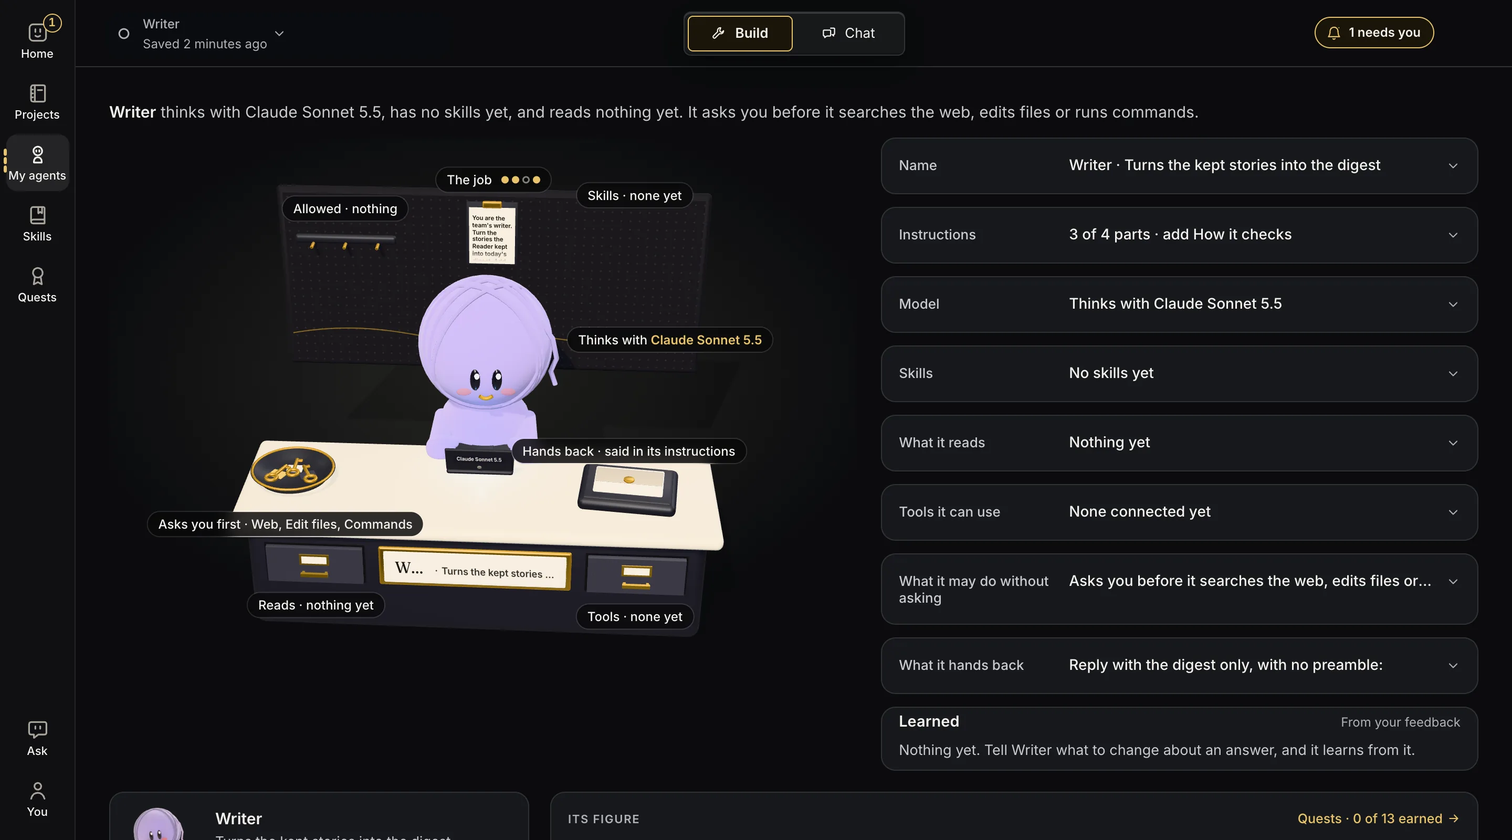
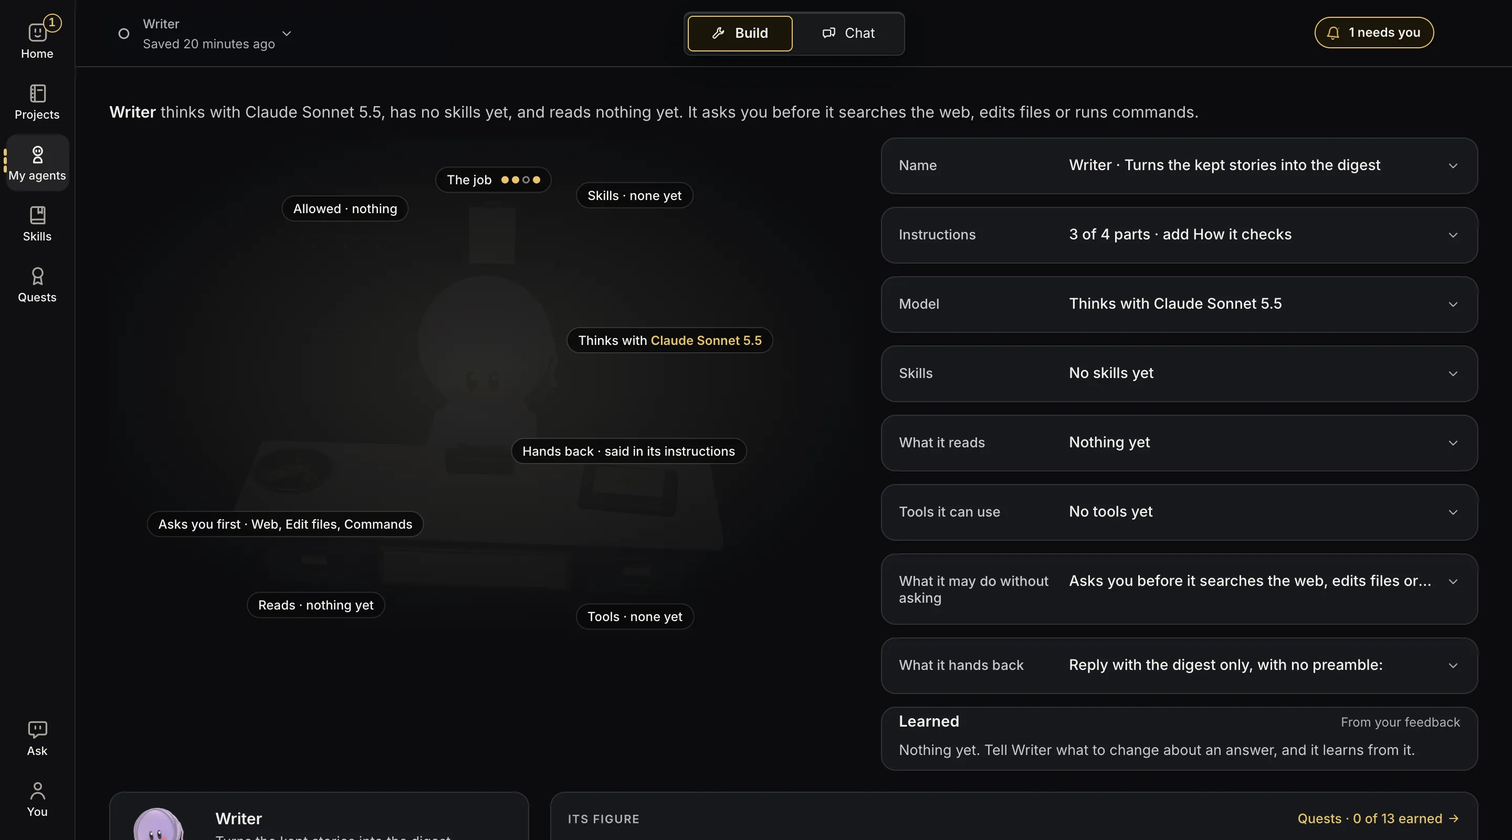
fix(team): adding an agent from the workbench asks first, and the save question never waits on Don't save
A second read by the newcomer and design reviewers found more ways to lose work
and words that still pointed at the old Agents tab.

- Pressing Add for another agent inside the workbench moved it to the new
  agent and dropped the changes on the one open. It now asks "Save changes to
  <name>?" first, like the close, the tabs and the chips.
- When the agent can't be saved as it is (no name, no instructions), the
  question says so ("This agent can't be saved yet. Give it a name.") and
  offers Don't save and Cancel only, with the keyboard on Cancel. Before, it
  offered a greyed-out Save and the keyboard landed on Don't save. The
  question's Save has the gold ring; the page's own Save keeps the one fill.
- My agents: the dashed "asks you" line is ink-3 (it was under 3:1 in dark),
  the check sits in a ringed badge clear of the next mark, and the "does" line
  is ink-2.
- A card focused from the keyboard (after Esc closes the workbench) shows its
  ring. The agents strip keeps clear of the close only where they share a row.
- Words: the Tools row says "No tools yet"; Connections and the receipt no
  longer send anyone to a Tools block or to Agents; the add panel no longer
  says "workflow"; the add chooser drops its second way back (the sheet's
  close is the one, ADR 0043); the guide says "You're editing one agent here".
  README and TEAM_CONFIG follow.

Checked: the UI suite (2,839 passed, 1 skipped), tsc and lint. The Add guard
[…]

diff --git a/ui/src/components/workspace/TeamAgents.tsx b/ui/src/components/workspace/TeamAgents.tsx
@@ -88,7 +88,7 @@ export function TeamAgents({ agents, responder, selected, onSelect, teamName, te
         {onAdd && agent && <button type="button" className="team-agents-chip add" aria-expanded={adding} onClick={() => setAdding((value) => !value)}><Plus size={16} aria-hidden="true" /><span><b>Add an agent</b><em>From My agents, or a new one</em></span></button>}
       </nav>
 
-      {choosing && onAdd && <AddAgents jobs={savedJobs} inTeam={agents} teamPath={teamPath} first={!agent} onAdd={(job) => { onAdd(job); setAdding(false) }} onClose={agent ? () => setAdding(false) : undefined} onShowWorkflow={onShowWorkflow} />}
+      {choosing && onAdd && <AddAgents jobs={savedJobs} inTeam={agents} teamPath={teamPath} first={!agent} onAdd={(job) => { onAdd(job); setAdding(false) }} onClose={agent ? () => setAdding(false) : undefined} />}
 
       {!agent && !onAdd && (
         <div className="team-agents-empty">
@@ -103,7 +103,7 @@ export function TeamAgents({ agents, responder, selected, onSelect, teamName, te
             ? <AgentBuilder id={mine.id} skills={[...skills]} skillsLoading={skillsLoading} inTeam={{ name: teamName, onSaved: onAgentSaved, reads, knowledge, onShowWorkflow }} leaveRef={leaveRef} />
             : savedJobsLoaded && (
               <div className="team-agents-empty">
-                <p>This agent isn’t in My agents any more, so this team can’t run. On the Team tab, select it, press Delete and save.</p>
+                <p>This agent isn’t in My agents any more, so this team can’t run. Go back to the team, select its card, press Delete and save.</p>
                 <button type="button" className="btn" onClick={onShowWorkflow}><Network size={14} aria-hidden="true" />Back to the team</button>
               </div>
             )}
@@ -124,12 +124,12 @@ export function TeamAgents({ agents, responder, selected, onSelect, teamName, te
  * Choosing agents for the team: the ones you built in Your agents, each added in one click and
  * linked to its current version, or a new one built there first. The first step of a team.
  */
-function AddAgents({ jobs, inTeam, teamPath, first, onAdd, onClose, onShowWorkflow }: { jobs: readonly SavedJob[]; inTeam: readonly AgentConfig[]; teamPath: string | null; first: boolean; onAdd: (job: SavedJob) => void; onClose?: () => void; onShowWorkflow: () => void }) {
+function AddAgents({ jobs, inTeam, teamPath, first, onAdd, onClose }: { jobs: readonly SavedJob[]; inTeam: readonly AgentConfig[]; teamPath: string | null; first: boolean; onAdd: (job: SavedJob) => void; onClose?: () => void }) {
   const here = new Set(inTeam.map((agent) => agent.from?.agent).filter(Boolean))
   return (
     <section className="team-agents-add" aria-label="Add an agent to this team" data-tour="agent-picker">
       <div className="team-agents-add-head">
-        <p>{first ? <><b>Start with its agents.</b> Add the agents you built, or build a new one. Then connect them on the Team tab, and give the team work in Chat.</> : <><b>Add an agent.</b> It joins at the end of the workflow; connect it there.</>}</p>
+        <p>{first ? <><b>Start with its agents.</b> Add the agents you built, or build a new one. Then connect them on the Team tab, and give the team work in Chat.</> : <><b>Add an agent.</b> It joins at the end of the team. Go back to the team to connect it to the others.</>}</p>
         {onClose && <button type="button" className="iconbtn" aria-label="Close" onClick={onClose}><X size={14} aria-hidden="true" /></button>}
       </div>
       {jobs.length > 0 && (
@@ -148,7 +148,6 @@ function AddAgents({ jobs, inTeam, teamPath, first, onAdd, onClose, onShowWorkfl
       )}
       <div className="team-agents-add-acts">
         <a className={`btn${jobs.length === 0 ? ' btn-primary' : ''}`} href={`/agents/new${teamPath ? `?team=${encodeURIComponent(teamPath)}` : ''}`}><UserRoundPlus size={14} aria-hidden="true" />Build a new agent</a>
-        {first && <button type="button" className="link" onClick={onShowWorkflow}>Or go back to the team</button>}
       </div>
     </section>
   )

diff --git a/ui/src/styles/agents.css b/ui/src/styles/agents.css
@@ -32,19 +32,20 @@
 .agent-tile-name { display: -webkit-box; -webkit-box-orient: vertical; -webkit-line-clamp: 2; max-width: 100%; overflow: hidden; overflow-wrap: anywhere; font-size: 15px; line-height: 1.3; font-weight: 600; color: var(--color-ink); }
 .agent-tile-name .agent-badge-pin { margin-left: 6px; vertical-align: -1px; }
 /* What it does, as My agents has always said it, in two lines at most. */
-.agent-tile-does { display: -webkit-box; -webkit-box-orient: vertical; -webkit-line-clamp: 2; max-width: 100%; overflow: hidden; overflow-wrap: anywhere; font-size: 12.5px; line-height: 1.4; color: var(--color-ink-3); }
+.agent-tile-does { display: -webkit-box; -webkit-box-orient: vertical; -webkit-line-clamp: 2; max-width: 100%; overflow: hidden; overflow-wrap: anywhere; font-size: 12.5px; line-height: 1.4; color: var(--color-ink-2); }
 .agent-tile-state { font-size: 12.5px; line-height: 16px; color: var(--color-ink-2); }
 .agent-tile-state.waiting { color: var(--color-accent); }
 .agent-tile-state.working { color: var(--color-live); }
 .agent-tile-state.failed { color: var(--color-alert); }
-.agent-tile-marks { margin-top: auto; display: inline-flex; flex-wrap: wrap; justify-content: center; gap: 6px; }
+.agent-tile-marks { margin-top: auto; display: inline-flex; flex-wrap: wrap; justify-content: center; gap: var(--sp-2); }
 /* A switch is solid with a check when it is allowed, and dashed when the agent asks you first:
    shape, not colour. Both lines are drawn dark enough to see on the card (3:1). */
 .agent-tile-mark { position: relative; display: inline-flex; align-items: center; justify-content: center; gap: 4px; min-width: 28px; height: 28px; padding: 0 6px; box-sizing: border-box; border: 1.5px solid var(--color-hairline); border-radius: var(--r-sm); color: var(--color-ink-2); font-size: 12px; font-weight: 500; font-variant-numeric: tabular-nums; }
 .agent-tile-mark.on { border-style: solid; border-color: var(--color-ink-2); color: var(--color-ink); }
-.agent-tile-mark.asks { border-style: dashed; border-color: var(--color-warp); }
+.agent-tile-mark.asks { border-style: dashed; border-color: var(--color-ink-3); }
 .agent-tile-mark.count { border-color: transparent; }
-.agent-tile-check { position: absolute; top: -6px; right: -6px; padding: 1px; border-radius: 50%; background: var(--color-panel-solid); color: var(--color-ink); }
+/* The check is a small badge on the mark's corner, ringed so the badge and its tick read as one. */
+.agent-tile-check { position: absolute; top: -5px; right: -5px; padding: 1px; border-radius: 50%; background: var(--color-panel-solid); box-shadow: 0 0 0 1.5px var(--color-ink-2); color: var(--color-ink); }
 @media (max-width: 560px) {
   .agents-grid { grid-template-columns: repeat(2, minmax(0, 1fr)); }
   .agent-tile { min-height: 216px; }
@@ -371,7 +372,7 @@
 .team-agents-page:focus { outline: none; }
 /* Its close stands in its corner, under the header; the agents' chips keep clear of it. */
 .team-agents-close { position: absolute; top: 80px; right: var(--sp-6); width: 40px; height: 40px; z-index: 1; }
-.team-agents-page .team-agents-strip { padding-right: 56px; }
+@media (min-width: 721px) { .team-agents-page .team-agents-strip { padding-right: 56px; } }
 @media (max-width: 767px) { .team-agents-close { width: 44px; height: 44px; } }
 @media (max-width: 720px) { .team-agents-close { top: 104px; right: var(--sp-4); } }
 .team-agents { width: min(1440px, 100%); margin: 0 auto; display: flex; flex-direction: column; gap: var(--sp-5); }

diff --git a/ui/src/components/workspace/Sheets.tsx b/ui/src/components/workspace/Sheets.tsx
@@ -32,23 +32,26 @@ export function InlineConfirm({ message, confirmLabel, onConfirm, onCancel }: { 
  */
 export function LeaveConfirm({ name, problem, onSave, onDrop, onCancel }: { name: string | null; problem: string | null; onSave: () => Promise<boolean>; onDrop: () => void; onCancel: () => void }) {
   const [saving, setSaving] = useState(false)
-  const box = useRef<HTMLDivElement>(null)
-  const message = `Save changes to ${name || 'this agent'}?`
-  useEffect(() => { box.current?.querySelector<HTMLButtonElement>('button:not(:disabled)')?.focus() }, [])
+  // Where the keyboard waits: on Save, or on Cancel when it can't be saved, never on Don't save.
+  const first = useRef<HTMLButtonElement>(null)
+  // It can't be saved as it is (no name, no instructions): it says why, and offers what it can do.
+  const message = problem ? `${name || 'This agent'} can’t be saved yet. ${problem}` : `Save changes to ${name || 'this agent'}?`
+  useEffect(() => { first.current?.focus() }, [])
   const save = async () => {
     setSaving(true)
     const saved = await onSave().catch(() => false)
     setSaving(false)
-    if (!saved) box.current?.querySelector<HTMLButtonElement>('button:not(:disabled)')?.focus()
+    if (!saved) first.current?.focus()
   }
   return (
     <div role="alertdialog" aria-label={message} className="pointer-events-none absolute inset-x-0 z-50 flex justify-center" style={{ bottom: 'calc(var(--lw-panel-inset) + 72px)' }}
       onKeyDown={(event) => { if (event.key === 'Escape') { event.stopPropagation(); onCancel() } }}>
-      <div ref={box} className="e2 lw-confirm leave t-body" style={{ pointerEvents: 'auto' }}>
-        <span>{message}{problem ? ` ${problem}` : ''}</span>
-        <button type="button" className="btn" onClick={() => void save()} disabled={saving || Boolean(problem)} title={problem ?? undefined}>{saving ? 'Saving…' : 'Save'}</button>
+      <div className="e2 lw-confirm leave t-body" style={{ pointerEvents: 'auto' }}>
+        <span>{message}</span>
+        {/* The answer to the question it asks: ringed, as the page's own Save keeps the one fill. */}
+        {!problem && <button ref={first} type="button" className="btn btn-ring" onClick={() => void save()} disabled={saving}>{saving ? 'Saving…' : 'Save'}</button>}
         <button type="button" className="btn" onClick={onDrop} disabled={saving}>Don’t save</button>
-        <button type="button" className="btn" onClick={onCancel} disabled={saving}>Cancel</button>
+        <button ref={problem ? first : undefined} type="button" className="btn" onClick={onCancel} disabled={saving}>Cancel</button>
       </div>
     </div>
   )

diff --git a/ui/src/components/connections/ConnectedTools.tsx b/ui/src/components/connections/ConnectedTools.tsx
@@ -15,7 +15,7 @@ const readAskedTool = () => new URLSearchParams(window.location.search).get('too
 /**
  * Connections' Tools section (ADR 0069): every tool connected in LoomWatch, what each offers, and
  * connecting, checking, signing in again or removing one. Which agent may use which tool is the
- * agent's own Tools block. Notion's card also says where teams' answers go, since its sign-in
+ * agent's own Tools it can use row. Notion's card also says where teams' answers go, since its sign-in
  * sends them and reads the pages agents are given (ADR 0070).
  */
 export function ConnectedTools() {
@@ -65,7 +65,7 @@ export function ConnectedTools() {
   return (
     <section className="e1 lw-settings-section" aria-labelledby="tools-heading" aria-busy={busy}>
       <h2 id="tools-heading" className="t-title">Tools</h2>
-      <p className="t-body lw-settings-quiet">A tool lets your agents use a service, such as Notion or Todoist. Connect it here, then give it to an agent in its Tools block. The agent asks you before each action it takes there, unless you always allow that action. Notion also lets LoomWatch send your teams’ answers to a page.</p>
+      <p className="t-body lw-settings-quiet">A tool lets your agents use a service, such as Notion or Todoist. Connect it here, then give it to an agent under Tools it can use. The agent asks you before each action it takes there, unless you always allow that action. Notion also lets LoomWatch send your teams’ answers to a page.</p>
       {error && <p role="alert" className="inline-error t-body"><span className="detail">{error}</span></p>}
       {notice && <p role="status" className="lw-notice t-meta">{notice}</p>}
       {tools.state === 'loading' && <p role="status" className="t-meta lw-settings-quiet">Loading tools…</p>}
@@ -113,9 +113,9 @@ export function ConnectedTools() {
               setConnecting(null); setStart(null); tools.refresh(); setError('')
               if (tool.notion) {
                 setChoosingFor(tool.id)
-                setNotice(`${tool.name} is connected. Choose the page your teams’ answers go under, and give it to agents in their Tools block.`)
+                setNotice(`${tool.name} is connected. Choose the page your teams’ answers go under, and give it to agents under Tools it can use.`)
               } else {
-                setNotice(`${tool.name} is connected. Give it to an agent in its Tools block.`)
+                setNotice(`${tool.name} is connected. Give it to an agent under Tools it can use.`)
               }
             }}
           />

diff --git a/ui/src/components/workspace/TeamAgents.test.tsx b/ui/src/components/workspace/TeamAgents.test.tsx
@@ -60,8 +60,8 @@ describe('a team’s agents, the first of its views', () => {
     expect(within(within(add).getByText('Coder').closest('li')!).getByRole('button', { name: 'Add' })).toBeEnabled()
     // A new one is built in Your agents, which leads back to this team.
     expect(within(add).getByRole('link', { name: 'Build a new agent' })).toHaveAttribute('href', '/agents/new?team=digest.yaml')
-    fireEvent.click(within(add).getByRole('button', { name: 'Or go back to the team' }))
-    expect(props.onShowWorkflow).toHaveBeenCalled()
+    // The sheet's close is the way back to the team; the chooser has no second one (ADR 0043).
+    expect(within(add).queryByRole('button', { name: /back to the team/i })).toBeNull()
   })
 
   it('keeps the old way in when the team can’t be changed here', () => {
@@ -177,8 +177,8 @@ describe('a team’s agents, the first of its views', () => {
     renderTeamAgents({ agents: [{ ...scoper, capabilities: [{ kind: 'skill', name: 'algorithmic-art' }] }], selected: 'scope' })
     const block = screen.getByRole('region', { name: 'Tools it can use' })
     // Files, the web and commands are every agent's, as What it may do without asking allows.
-    expect(block.querySelector('.byhand-row-says')).toHaveTextContent('None connected yet')
-    expect(block).toHaveTextContent('Every agent can read and write files in its own folder, search and read the web, and run commands, as you allow in What it may do without asking.')
+    expect(block.querySelector('.byhand-row-says')).toHaveTextContent('No tools yet')
+    expect(block).toHaveTextContent('Every agent can read and write files in its own folder, search and read the web, and run commands, as you allow under “What it may do without asking”.')
     expect(within(block).queryByRole('list', { name: 'Tools you gave it' })).toBeNull()
   })
 

diff --git a/ui/src/components/workspace/Sheets.leave.test.tsx b/ui/src/components/workspace/Sheets.leave.test.tsx
@@ -1,0 +1,31 @@
+import { cleanup, fireEvent, render, screen } from '@testing-library/react'
+import { afterEach, expect, it, vi } from 'vitest'
+
+import { LeaveConfirm } from './Sheets'
+
+afterEach(cleanup)
+
+it('asks to save, with the keyboard on Save', () => {
+  const onSave = vi.fn(async () => true)
+  render(<LeaveConfirm name="Scout" problem={null} onSave={onSave} onDrop={vi.fn()} onCancel={vi.fn()} />)
+  const dialog = screen.getByRole('alertdialog', { name: 'Save changes to Scout?' })
+  expect(screen.getByRole('button', { name: 'Save' })).toHaveFocus()
+  expect(screen.getByRole('button', { name: 'Save' })).toHaveClass('btn-ring')
+  fireEvent.click(screen.getByRole('button', { name: 'Save' }))
+  expect(onSave).toHaveBeenCalled()
+  expect(dialog).toBeInTheDocument()
+})
+
+// The reviews: it asked "Save changes to this agent? Give it a name." beside a Save it wouldn't
+// let you press, and the keyboard landed on Don't save, one Enter from losing the changes.
+it('says why it can’t be saved, offers no Save, and waits on Cancel', () => {
+  const onDrop = vi.fn()
+  const onCancel = vi.fn()
+  render(<LeaveConfirm name={null} problem="Give it a name." onSave={vi.fn(async () => true)} onDrop={onDrop} onCancel={onCancel} />)
+  expect(screen.getByRole('alertdialog', { name: 'This agent can’t be saved yet. Give it a name.' })).toBeInTheDocument()
+  expect(screen.queryByRole('button', { name: 'Save' })).toBeNull()
+  expect(screen.getByRole('button', { name: 'Cancel' })).toHaveFocus()
+  fireEvent.keyDown(screen.getByRole('button', { name: 'Cancel' }), { key: 'Escape' })
+  expect(onCancel).toHaveBeenCalled()
+  expect(onDrop).not.toHaveBeenCalled()
+})

diff --git a/ui/src/components/agents/ByHand.tsx b/ui/src/components/agents/ByHand.tsx
@@ -378,7 +378,7 @@ export function ByHand({ draft, set: write, skills, skillsLoading, roleField, fi
           />)}
 
           {block('tools', <>
-            <p className="t-meta">Every agent can read and write files in its own folder, search and read the web, and run commands, as you allow in What it may do without asking.</p>
+            <p className="t-meta">Every agent can read and write files in its own folder, search and read the web, and run commands, as you allow under “What it may do without asking”.</p>
             {givenTools.length > 0 && <ul className="byhand-tools" aria-label="Tools you gave it">
               {givenTools.map(({ name, tool }) => {
                 const allowed = allowedFor(draft.toolAllow, name)
@@ -549,7 +549,7 @@ function keysSay(allow: AgentDraft['allow']): string {
 /** The tools added to it, by name, and which of them aren't connected yet; files, the web and
     commands are What it may do without asking's, so they aren't counted here. */
 function toolsRowSays(given: readonly { name: string; tool: unknown }[], loading: boolean): string {
-  if (!given.length) return 'None connected yet'
+  if (!given.length) return 'No tools yet'
   if (loading) return listNames(given.map((item) => item.name))
   const usable = given.filter((item) => item.tool).map((item) => item.name)
   const missing = given.filter((item) => !item.tool).map((item) => item.name)

diff --git a/ui/src/styles/app.css b/ui/src/styles/app.css
@@ -54,7 +54,8 @@ code, kbd, pre { font-family: var(--font-mono); }
 .react-flow__node.dragging, .lw-shell.node-dragging .react-flow__node { transition: none; }
 .react-flow__node:focus, .react-flow__node:focus-visible { outline: 0; }
 .react-flow__node:focus-visible > .node,
-.react-flow__node:focus-visible > .rt {
+.react-flow__node:focus-visible > .rt,
+.react-flow__node:focus-visible .build-node {
   box-shadow: 0 0 0 1px var(--color-panel-solid), 0 0 0 3px var(--lw-node-ring);
 }
 .react-flow__edge:focus, .react-flow__edge:focus-visible { outline: 0; }
@@ -853,7 +854,7 @@ button.thread-node:hover svg, button.thread-node:focus-visible svg { color: var(
    INLINE CONFIRM — bottom-centre, above the composer
    --------------------------------------------------------------------------- */
 .lw-confirm { display: flex; align-items: center; gap: var(--sp-3); padding: var(--sp-2) var(--sp-3); border-color: color-mix(in srgb, var(--color-alert) 40%, transparent); }
-.lw-confirm.leave { flex-wrap: wrap; border-color: var(--color-hairline); }
+.lw-confirm.leave { flex-wrap: wrap; margin: 0 var(--sp-4); border-color: var(--color-hairline); }
 .lw-confirm .btn-danger-fill { background: var(--color-alert); color: var(--color-white); border-color: transparent; }
 
 /* ---------------------------------------------------------------------------

diff --git a/ui/src/components/Workspace.test.tsx b/ui/src/components/Workspace.test.tsx
@@ -1517,6 +1517,12 @@ describe('Workspace', () => {
         bench = await open()
         fireEvent.click(within(bench).getByRole('button', { name: /^Name\b/ }))
         fireEvent.change(within(bench).getByRole('textbox', { name: 'Name' }), { target: { value: 'Scout' } })
+        // Adding another agent from the sheet moves the workbench to it: that asks too.
+        fireEvent.click(within(bench).getByRole('button', { name: /^Add an agent/ }))
+        fireEvent.click(within(screen.getByRole('region', { name: 'Add an agent to this team' })).getByRole('button', { name: /^Add/ }))
+        expect(screen.getByRole('alertdialog', { name: 'Save changes to Scout?' })).toBeInTheDocument()
+        expect(documentState.addAgentFromDrop).not.toHaveBeenCalled()
+        fireEvent.click(within(screen.getByRole('alertdialog')).getByRole('button', { name: 'Cancel' }))
         fireEvent.click(within(screen.getByRole('navigation', { name: 'Workspace view' })).getByRole('button', { name: 'Chat' }))
         fireEvent.click(within(screen.getByRole('alertdialog', { name: 'Save changes to Scout?' })).getByRole('button', { name: 'Don’t save' }))
         expect(screen.queryByRole('region', { name: /’s agents$/ })).toBeNull()

diff --git a/ui/src/components/agents/AgentTile.tsx b/ui/src/components/agents/AgentTile.tsx
@@ -50,7 +50,7 @@ export function AgentTile({ id, figure, draft, teams, runs, pinned = false }: {
           const on = draft.allow[key] === true
           const said = `${label}: ${on ? 'allowed' : 'asks you'}`
           const Mark = SWITCH_ICONS[key]
-          return <span key={key} className={`agent-tile-mark ${on ? 'on' : 'asks'}`} role="img" aria-label={said} title={said}><Mark size={14} aria-hidden="true" />{on && <Icon name="check" size={10} strokeWidth={3} className="agent-tile-check" aria-hidden="true" />}</span>
+          return <span key={key} className={`agent-tile-mark ${on ? 'on' : 'asks'}`} role="img" aria-label={said} title={said}><Mark size={14} aria-hidden="true" />{on && <Icon name="check" size={12} strokeWidth={2.5} className="agent-tile-check" aria-hidden="true" />}</span>
         })}
         {skills > 0 && <span className="agent-tile-mark count" role="img" aria-label={`${skills} skill${skills === 1 ? '' : 's'}`} title={`${skills} skill${skills === 1 ? '' : 's'}: ${draft.skills.join(', ')}`}><Icon name="skills" size={14} />{skills}</span>}
         <span className="agent-tile-mark count" role="img" aria-label={teamsSaid} title={teamsSaid}><Icon name="network" size={14} />{teams}</span>

diff --git a/ui/src/lib/story/receipt.ts b/ui/src/lib/story/receipt.ts
@@ -297,7 +297,7 @@ export function buildReceipt(input: ReceiptInput): Receipt {
   for (const alert of input.projection.attention) {
     checks.push({ tone: 'warn', text: alert.message, agentId: alert.agentId, evidenceId: alert.evidenceId })
   }
-  if (anyRefused) checks.push({ tone: 'warn', text: 'What an agent isn’t allowed to do waits for your answer during a run. Requests you denied, or that nobody answered in time, were declined. Change what each agent may do on its workbench, in Agents.', aside: true })
+  if (anyRefused) checks.push({ tone: 'warn', text: 'What an agent isn’t allowed to do waits for your answer during a run. Requests you denied, or that nobody answered in time, were declined. To change what an agent may do, select its card on the Team tab and press Edit.', aside: true })
   if (terminal && !input.answered) checks.push({ tone: 'bad', text: 'The run ended without an answer' })
   const money = spendNote({ spend: input.spend }, (id) => nameWithHelpers(new Map(input.agents.map((agent) => [agent.id, agent.name])), id) ?? id)
   if (money) checks.push({ tone: input.spend?.stopped ? 'warn' : 'ok', text: money, aside: true })

diff --git a/ui/src/lib/story/weft.test.ts b/ui/src/lib/story/weft.test.ts
@@ -194,7 +194,7 @@ describe('buildReceipt', () => {
       ['News Collector asked permission for “Mystery tool”, and it was refused, and carried on without it', null, null],
     ])
     expect(receipt.lines[1].evidenceId).toBe('p1')
-    expect(receipt.checks.map((line) => line.text)).toContain('What an agent isn’t allowed to do waits for your answer during a run. Requests you denied, or that nobody answered in time, were declined. Change what each agent may do on its workbench, in Agents.')
+    expect(receipt.checks.map((line) => line.text)).toContain('What an agent isn’t allowed to do waits for your answer during a run. Requests you denied, or that nobody answered in time, were declined. To change what an agent may do, select its card on the Team tab and press Edit.')
 
     // Switched on since: the same refusal now says so instead of offering the switch again.
     expect(lines({ web: true }).lines[1]).toMatchObject({ allow: 'web', allowed: true })
